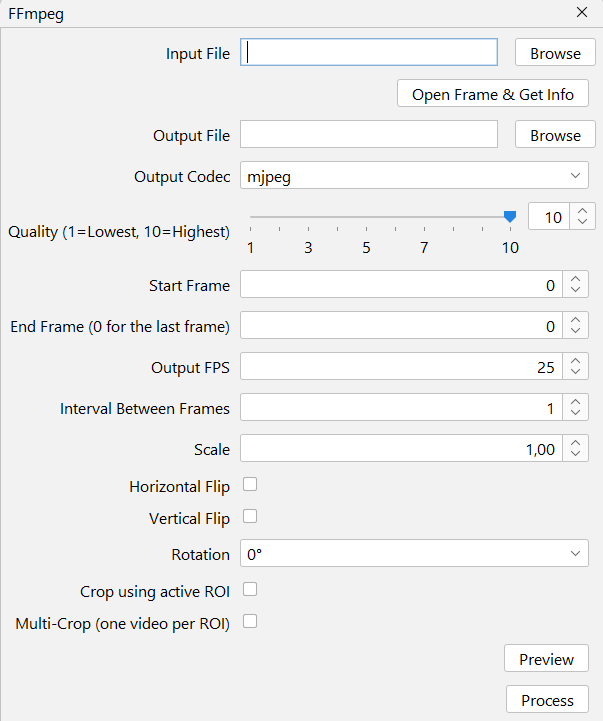
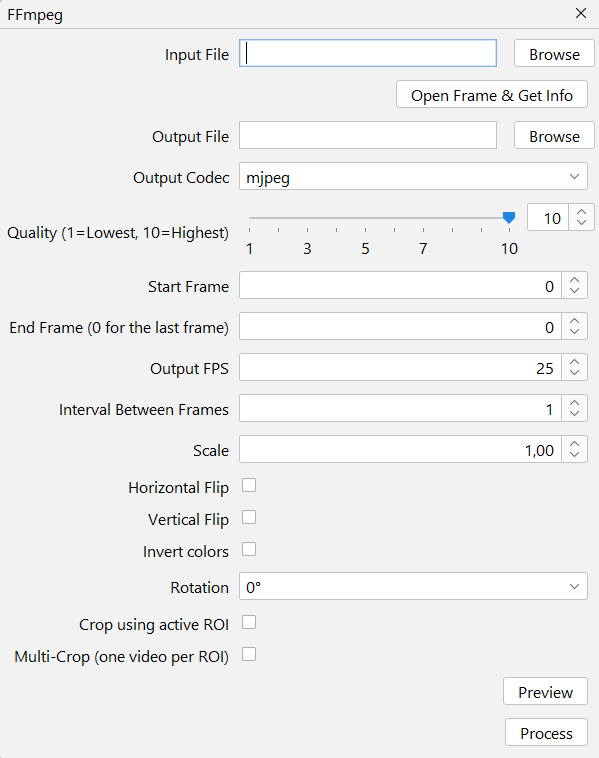
ffmpeg docs and ffmpeg progressbar fixed

diff --git a/src/main/java/labmus/animove/tools/FFmpegPlugin.java b/src/main/java/labmus/animove/tools/FFmpegPlugin.java
@@ -374,7 +374,7 @@ public class FFmpegPlugin implements Command, Interactive {
             grabber.start();
             fps = grabber.getFrameRate();
             int finalFrame = (endFrame <= 0 || endFrame > grabber.getLengthInFrames()) ? grabber.getLengthInFrames() : endFrame;
-            totalFramesToProcess = Math.max(0, finalFrame - startFrame);
+            totalFramesToProcess = Math.max(0, finalFrame - startFrame) / frameInterval;
         }
 
         // For posview modes, set output to temporary file and process single frame

diff --git a/docs/docs/tools/ffmpeg.md b/docs/docs/tools/ffmpeg.md
@@ -47,6 +47,9 @@ Flips the video horizontally. Based on the Preview's frame position. Uses an [ff
 ## Vertical Flip
 Flips the video vertically. Based on the Preview's frame position. Uses an [ffmpeg fiter](https://ffmpeg.org/ffmpeg-filters.html#vflip).
 
+## Invert Colors
+Uses an [ffmpeg fiter](https://ffmpeg.org/ffmpeg-filters.html#negate)
+
 ## Rotation
 Rotates the video by the set degrees amount. Based on the Preview's frame position. Uses an [ffmpeg fiter](https://ffmpeg.org/ffmpeg-filters.html#transpose).
 
